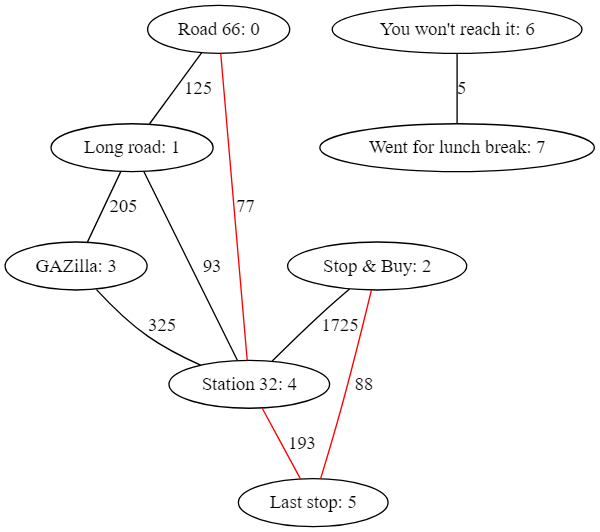
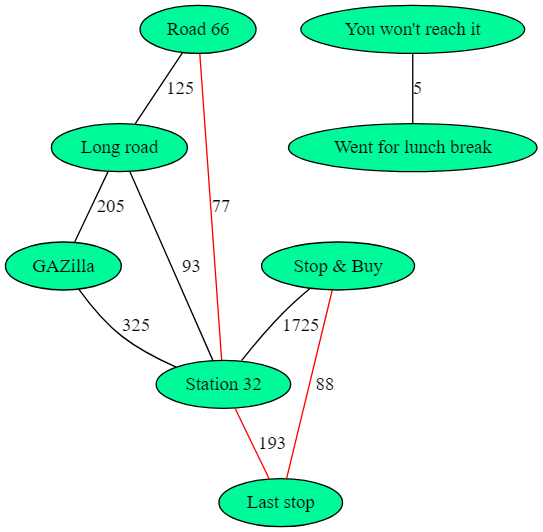
- small fixes

diff --git a/examples/transport/main.cpp b/examples/transport/main.cpp
@@ -63,8 +63,8 @@ void print_shortest_path(const graaf::undirected_graph<station, road>& graph,
 
     const auto vertex_writer{
         [](graaf::vertex_id_t vertex_id, station vertex) -> std::string {
-        const auto style{"solid"};
-        return fmt::format("label=\"{}: {}\", style={}, color=black, fontcolor=black",
+        const auto style{"filled"};
+        return fmt::format("label=\"{}\", style={}, color=black, fontcolor=black, fillcolor=mediumspringgreen",
                             vertex.name, style);
     }};
 
@@ -111,10 +111,10 @@ void print_visited_vertices(const graaf::undirected_graph<station, road>& graph,
 
   const auto vertex_writer{
       [](graaf::vertex_id_t vertex_id, station vertex) -> std::string {
-        const auto style{"solid"};
+        const auto style{"filled"};
 
         return fmt::format(
-            "label=\"{}: {}\", style={}, color=gray, fontcolor=black",
+            "label=\"{}\", style={}, color=black, fontcolor=black, fillcolor=mediumspringgreen",
             vertex.name, style);
   }};
 
